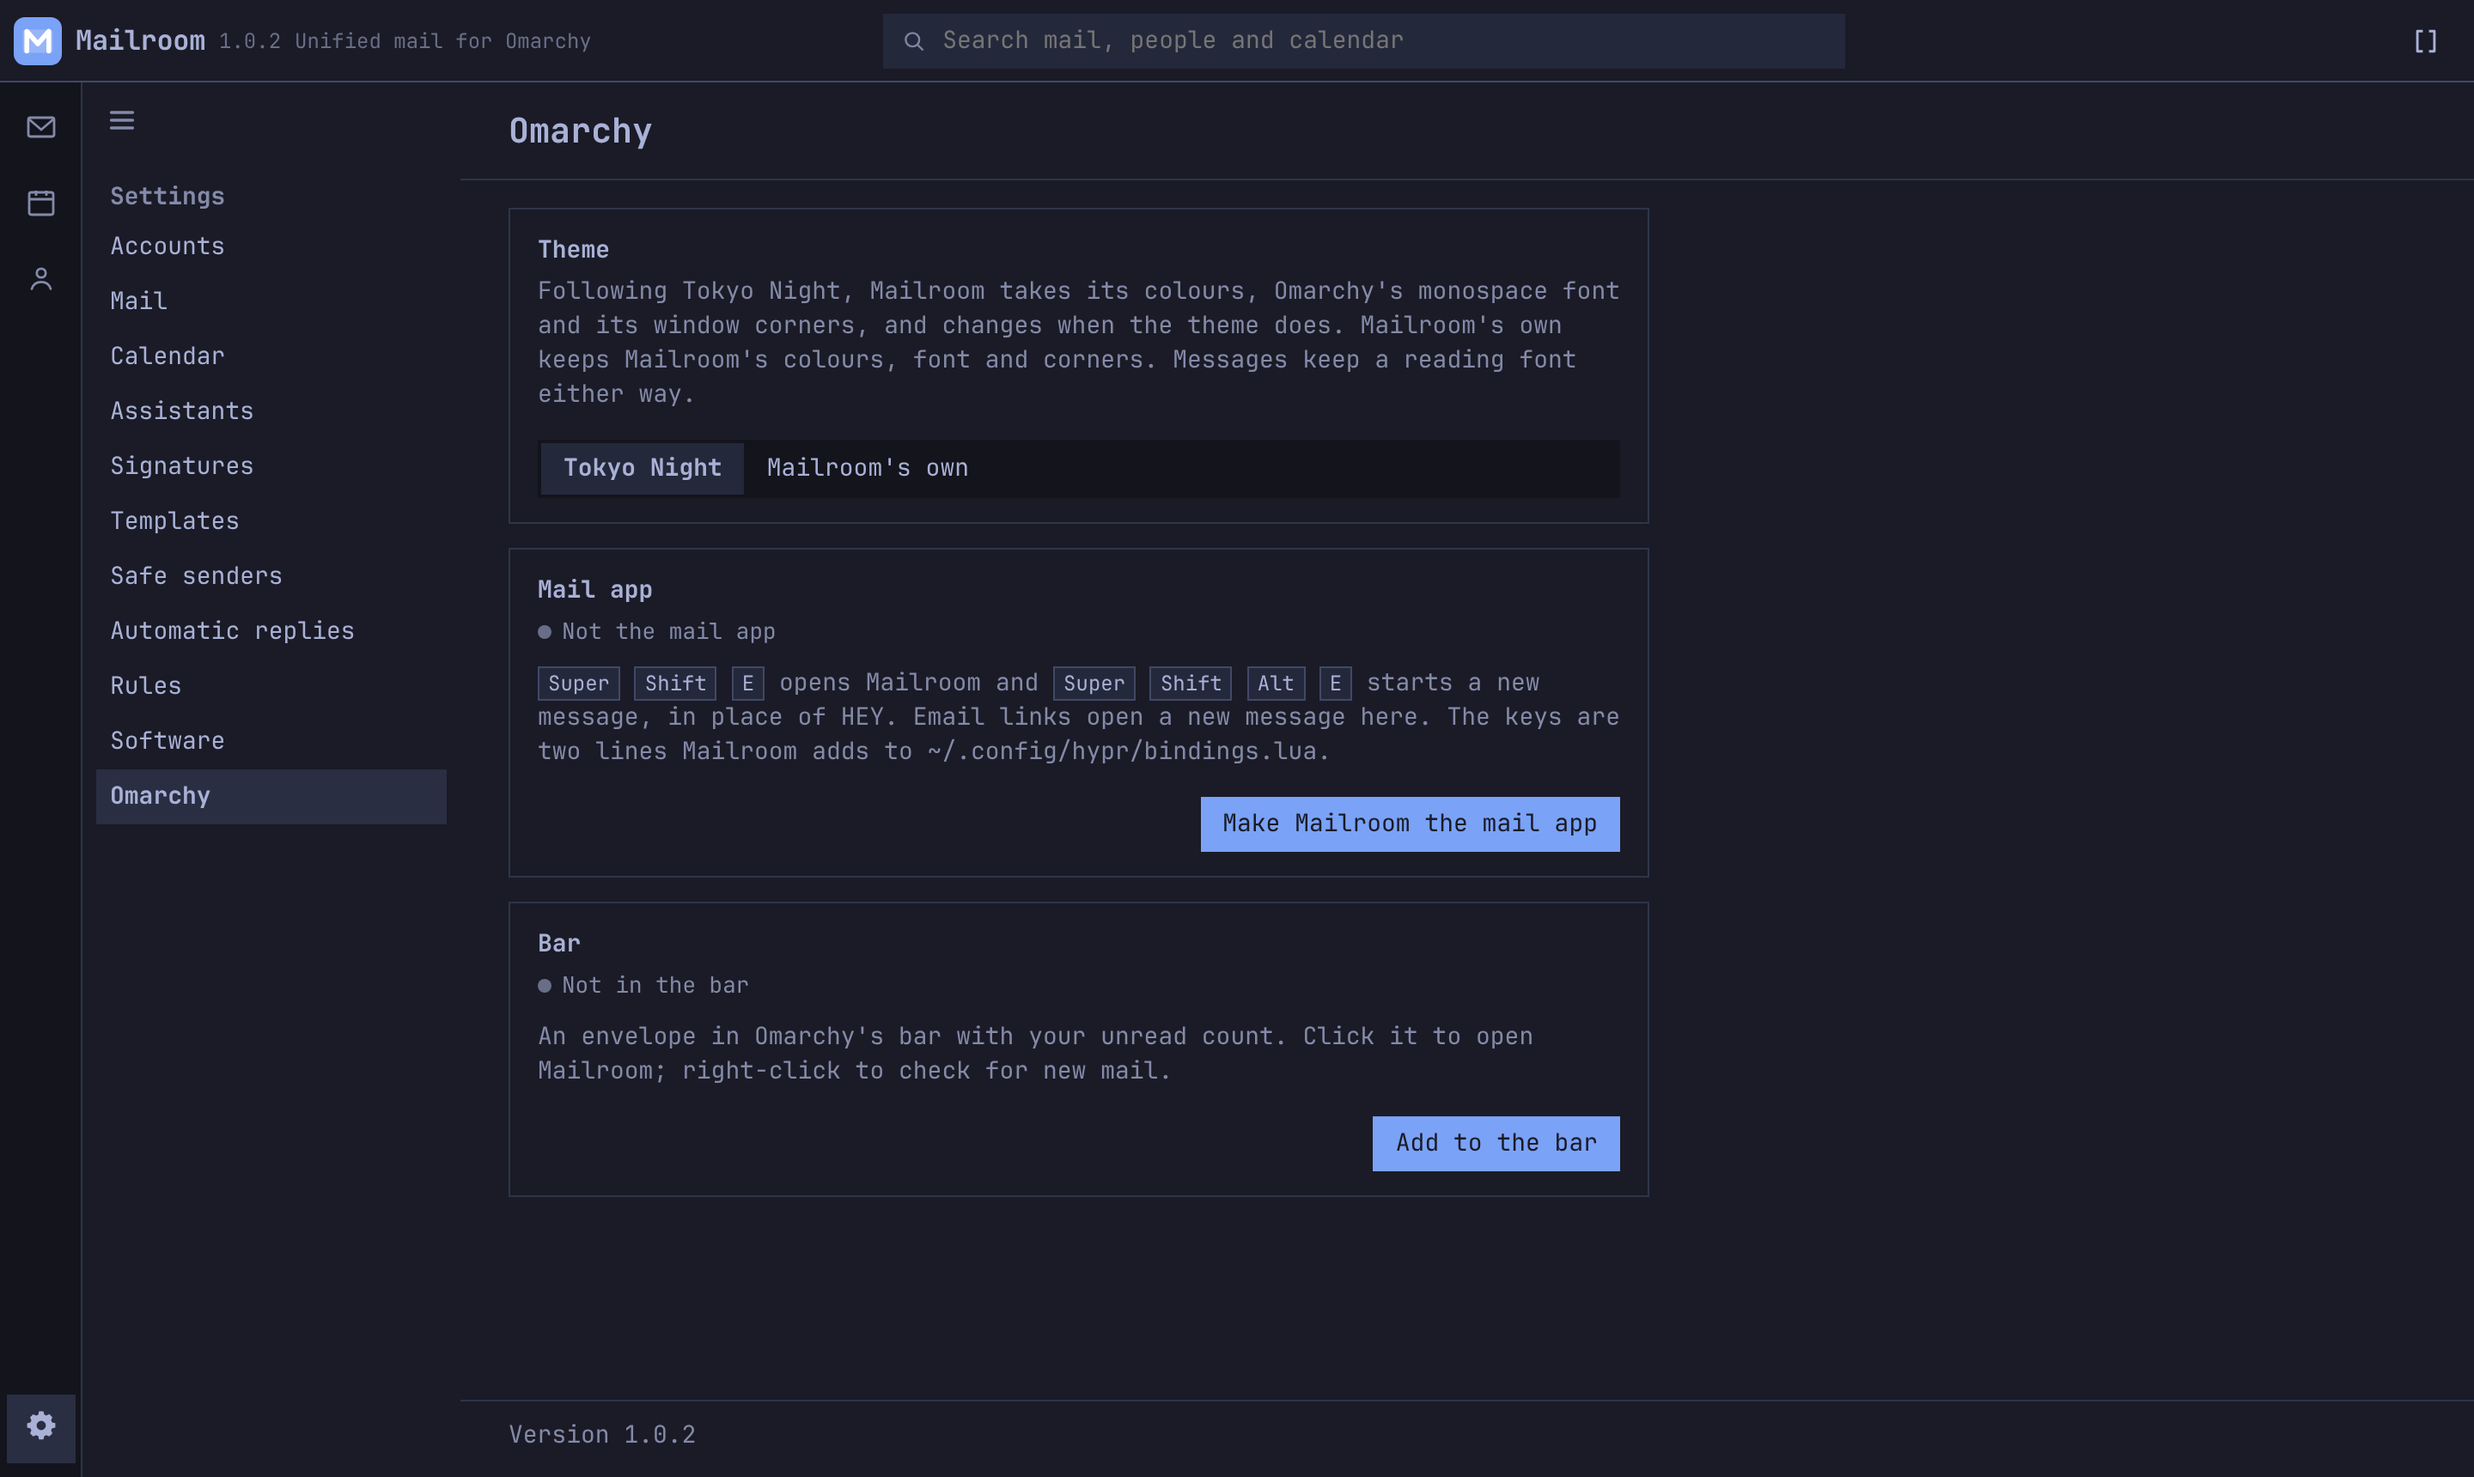
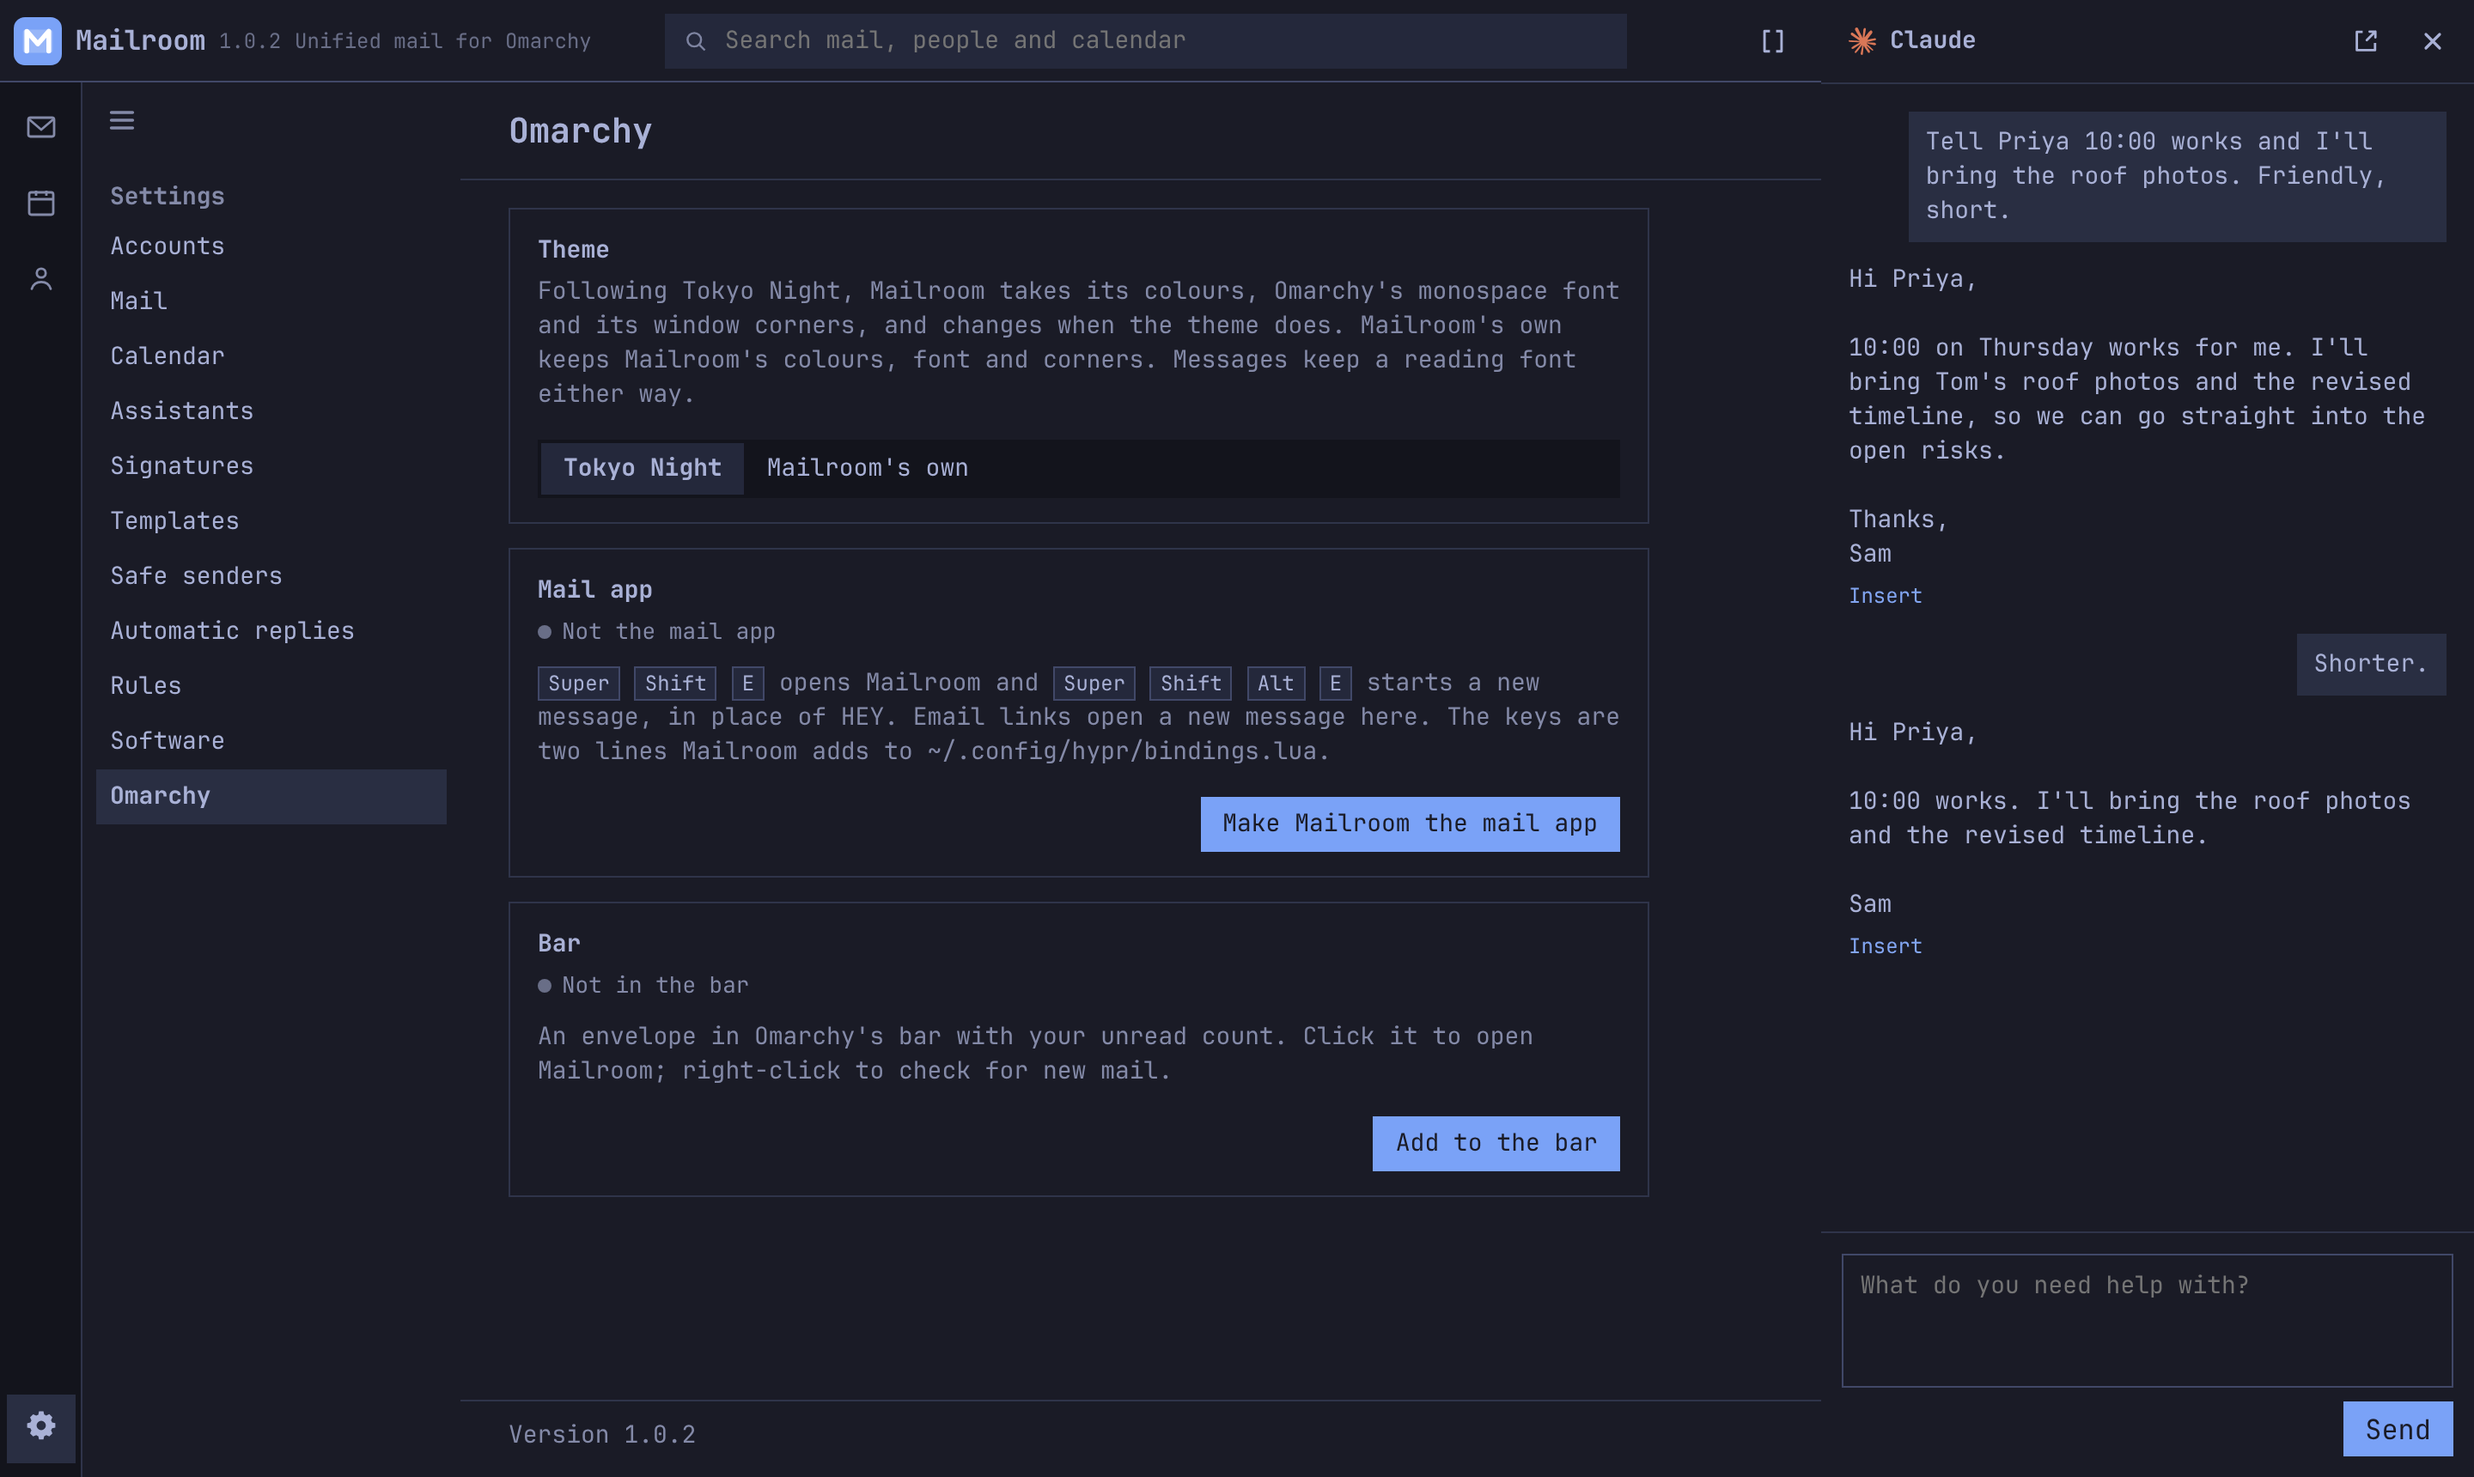
README: a screenshot of Help me write

diff --git a/README.md b/README.md
@@ -56,6 +56,8 @@ conversation you're working on or the results you asked about. The
 assistant has no tools, so it can't send, move or delete anything, and its
 answers are shown as plain text, never run as markup.
 
+![Help me write with Claude: a request, a draft, "Shorter", and a shorter draft beside the reply, each ready to insert](screenshots/7-write.png)
+
 ![An answer drawn from the conversation and its attachment](screenshots/3-ask.png)
 
 **Writing that behaves.** Undo send, send later, server drafts saved as you
